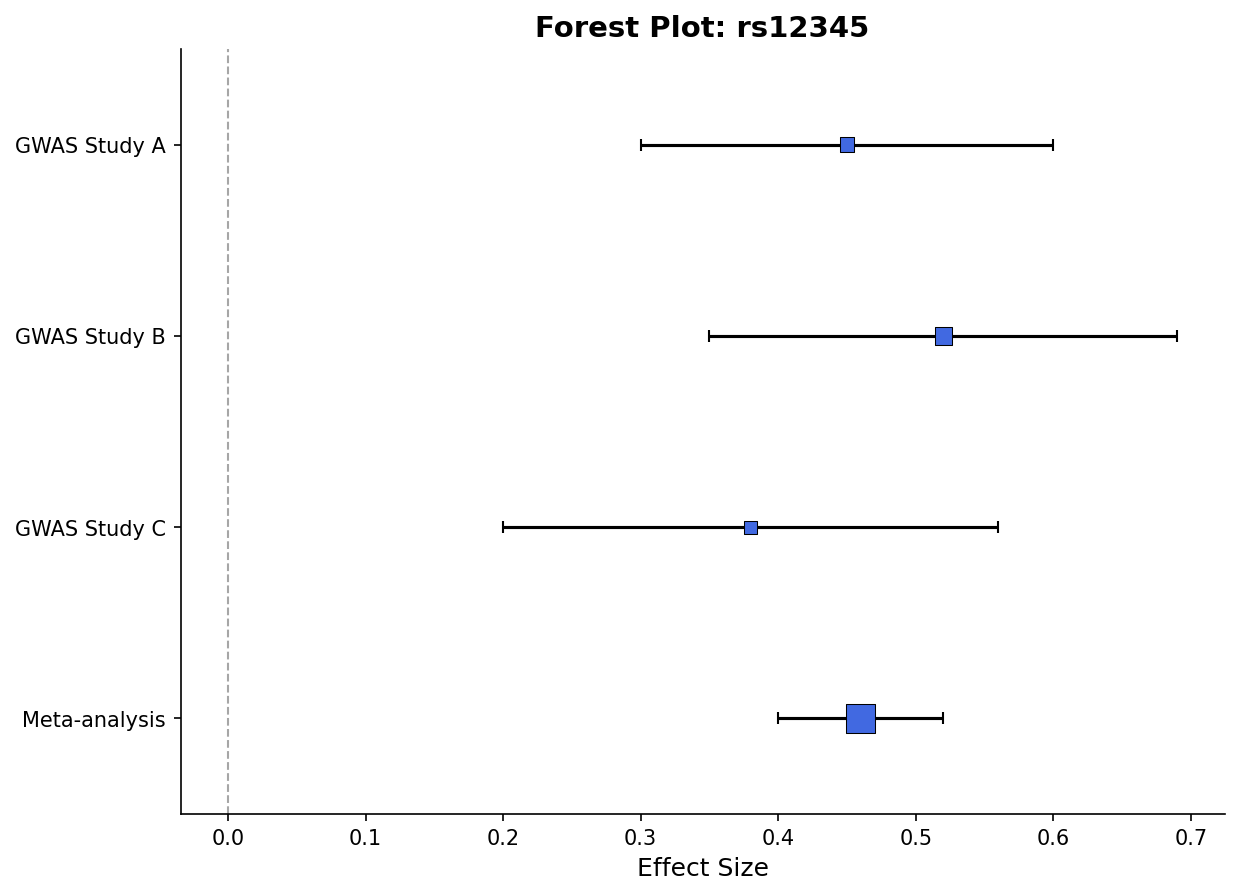
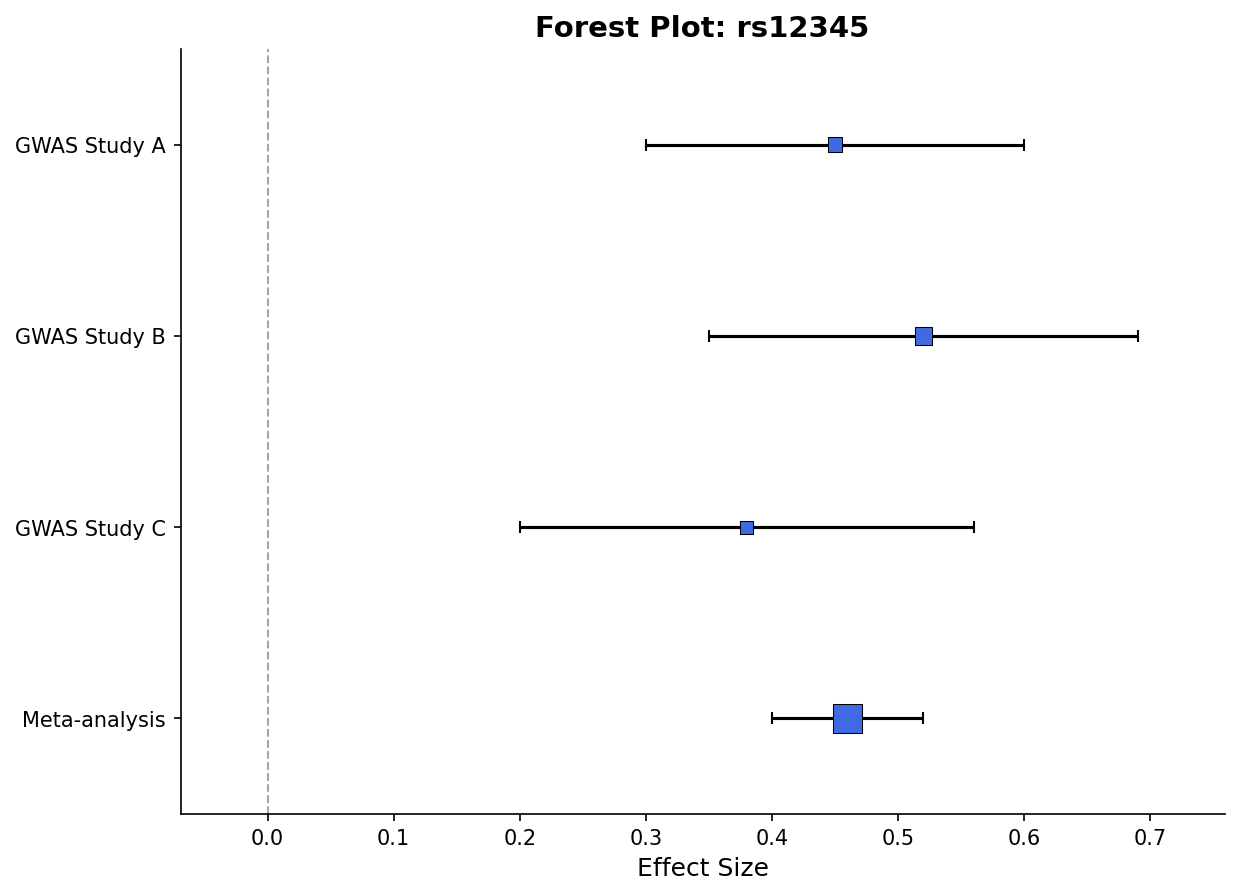
fix: ensure forest plot x-axis includes null reference line
The x-axis now explicitly includes the null_value (default 0) with
padding, ensuring the reference line is clearly visible even when
all effect sizes are far from the null.

diff --git a/src/pylocuszoom/plotter.py b/src/pylocuszoom/plotter.py
@@ -1399,6 +1399,12 @@ class LocusZoomPlotter:
         self._backend.set_xlabel(ax, effect_label)
         self._backend.set_ylim(ax, -0.5, len(df) - 0.5)
 
+        # Ensure x-axis includes the null value with some padding
+        x_min = min(df[ci_lower_col].min(), null_value)
+        x_max = max(df[ci_upper_col].max(), null_value)
+        x_padding = (x_max - x_min) * 0.1
+        self._backend.set_xlim(ax, x_min - x_padding, x_max + x_padding)
+
         # Set y-tick labels to study names (matplotlib only)
         if self.backend_name == "matplotlib":
             ax.set_yticks(df["y_pos"])
